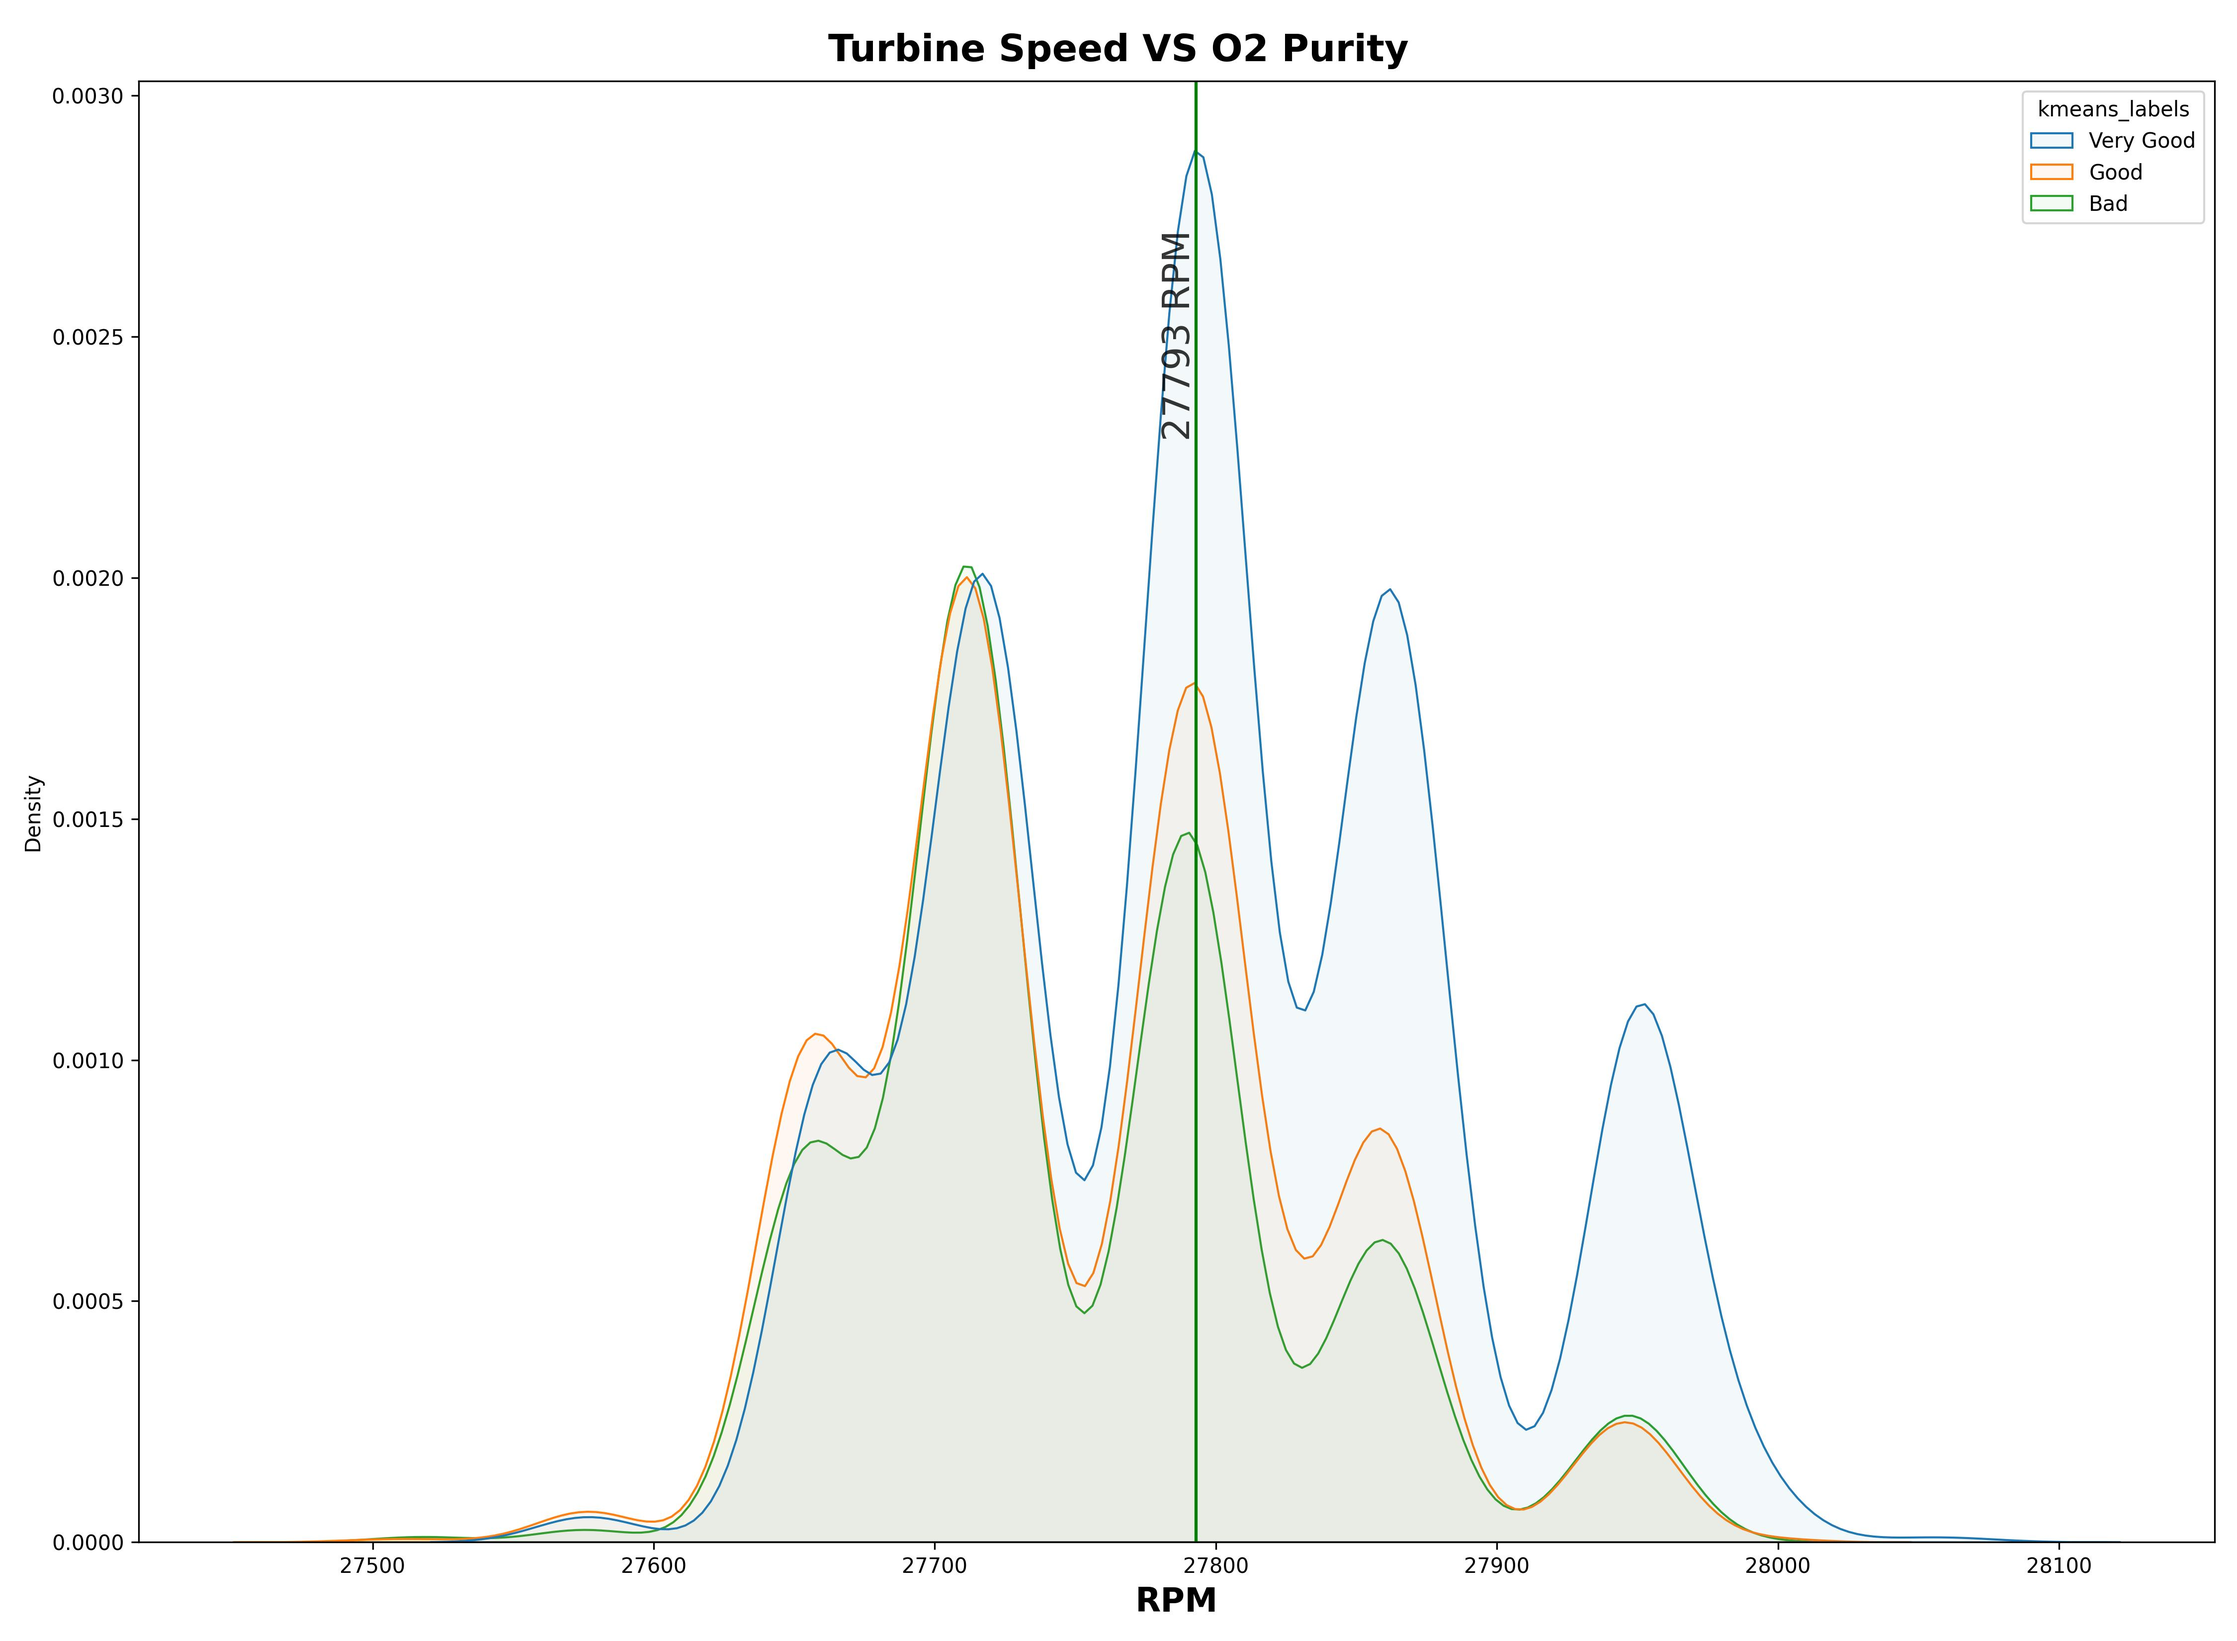
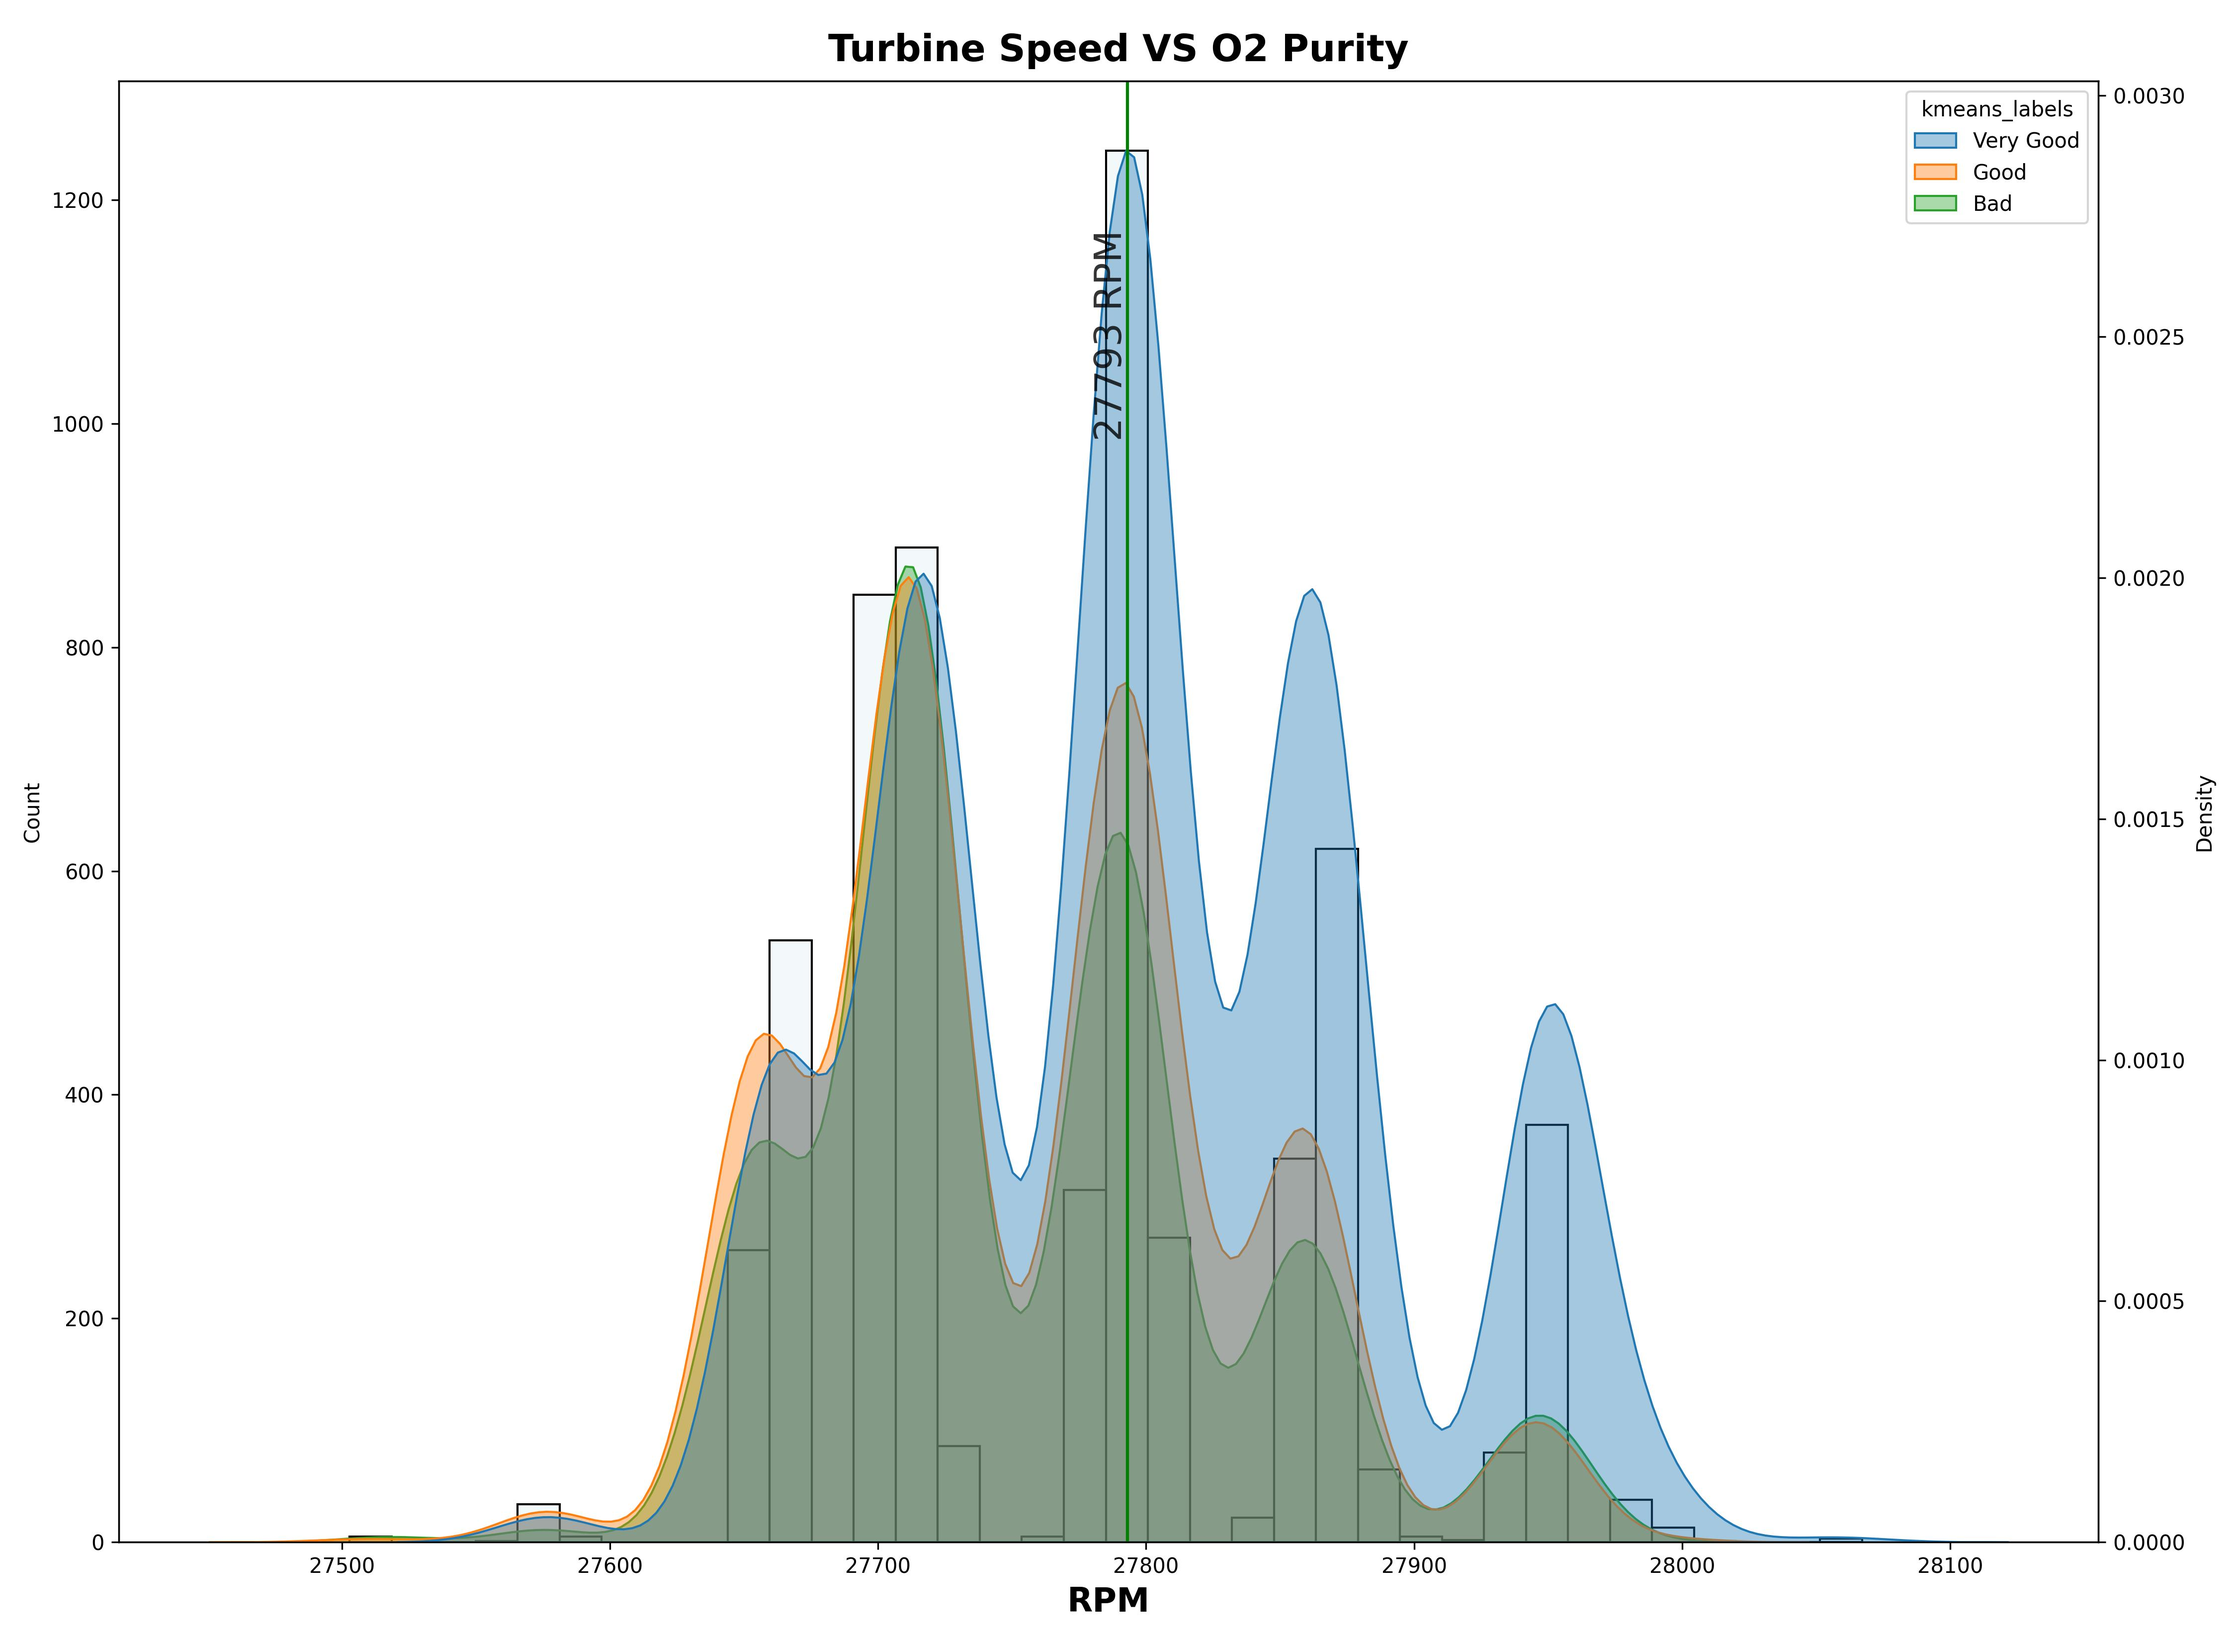
jupyter notebook configuration add

diff --git a/code/kmean-oxy.py b/code/kmean-oxy.py
@@ -182,12 +182,23 @@ fig = plt.figure(figsize=(15,11),dpi=300)
 fig.suptitle('Turbine Speed VS O2 Purity', fontsize=18,fontweight='bold')
 ax1 = fig.subplots(1,1)
 ax1.set_xlabel('RPM', fontsize=16,fontweight='bold')
+ax2 = ax1.twinx()
+sns.histplot(
+    data=df,
+    x= 'SIC401B - PV Air turbine/booster T/C2000B speed',
+    #hue= 'kmeans_labels',
+    #hue_order= ['Very Good'],
+    alpha = 0.05,
+    #kde= True,
+    ax= ax1
+)
 sns.kdeplot(
     data=df,
     x='SIC401B - PV Air turbine/booster T/C2000B speed',
     hue='kmeans_labels',
     fill=True,
-    alpha = 0.05,
+    alpha = 0.4,
+    ax=ax2
 )
 plt.axvline(27793, c='green')
 plt.annotate('27793 RPM', xy =(27787, 0.0023),rotation = 90,ha='center', fontsize=18,alpha = 0.8) 
@@ -212,5 +223,35 @@ sns.scatterplot(
 fig.tight_layout()
 plt.axhline(27793, c='green',alpha=0.4)
 plt.savefig(f'{working_dir}/kmeans-output/turbine-speed-vs-o2-purity.jpg')
+#plt.show()
+fig.clear()
+
+#// turbine Speed VS O2 Purity
+fig = plt.figure(figsize=(15,11),dpi=300)
+fig.suptitle('Turbine Speed VS O2 Purity', fontsize=18,fontweight='bold')
+ax1 = fig.subplots(1,1)
+ax1.set_xlabel('RPM', fontsize=16,fontweight='bold')
+ax2 = ax1.twinx()
+sns.histplot(
+    data=df,
+    x= 'AI4 Oxygen content in waste nitrogen',
+    #hue= 'kmeans_labels',
+    #hue_order= ['Very Good'],
+    alpha = 0.9,
+    #kde= True,
+    ax= ax1
+)
+sns.kdeplot(
+    data=df,
+    x='AI4 Oxygen content in waste nitrogen',
+    hue='kmeans_labels',
+    fill=False,
+    alpha = 0.8,
+    ax=ax2
+)
+#plt.axvline(27793, c='green')
+#plt.annotate('27793 RPM', xy =(27787, 0.0023),rotation = 90,ha='center', fontsize=18,alpha = 0.8) 
+fig.tight_layout()
+plt.savefig(f'{working_dir}/kmeans-output/N2-O2-purity.jpg')
 #plt.show()
 fig.clear()
